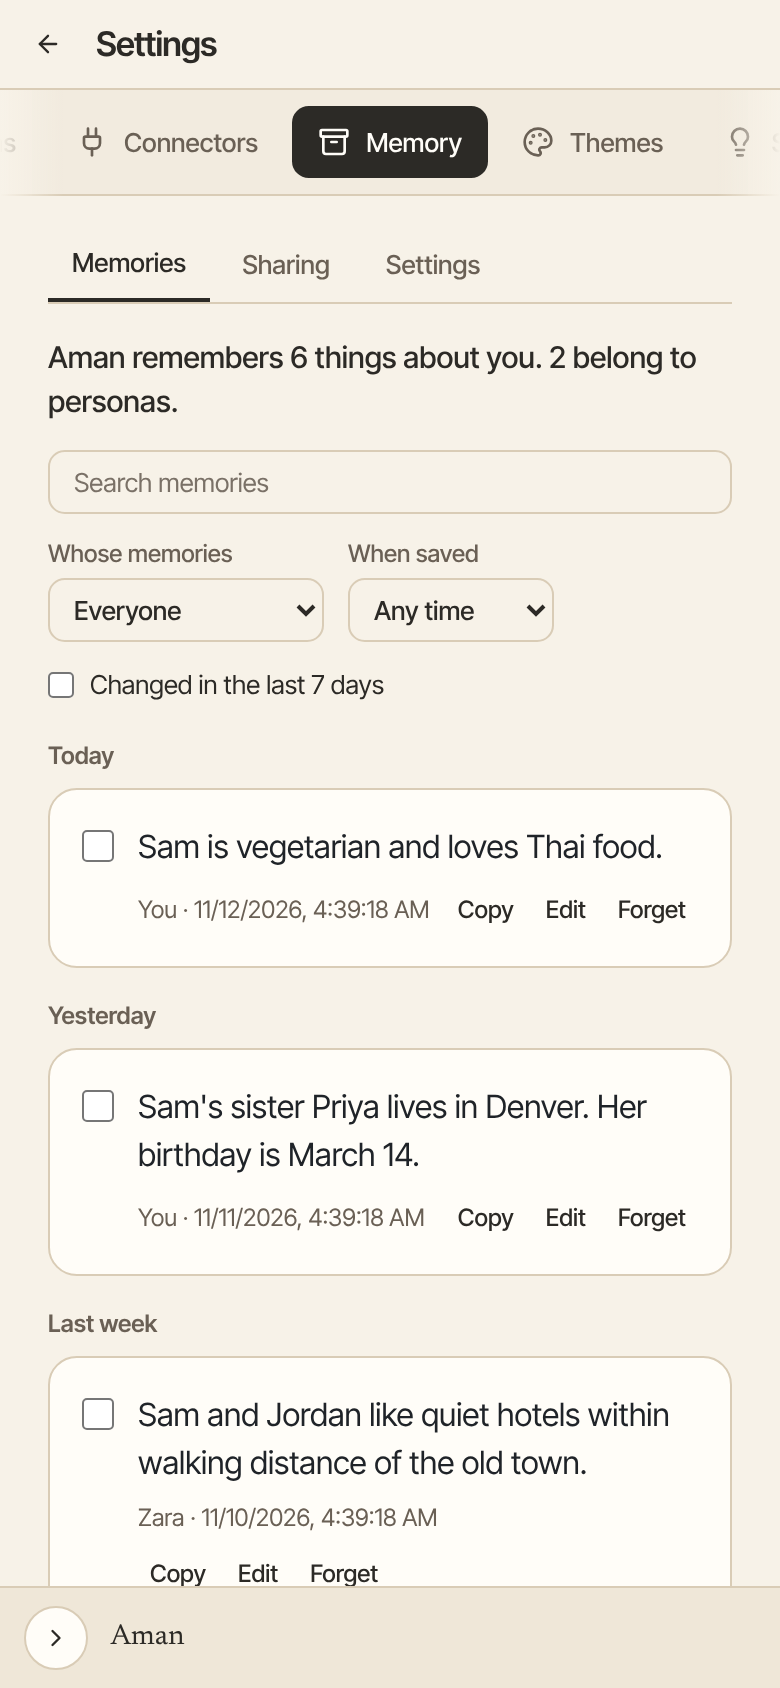
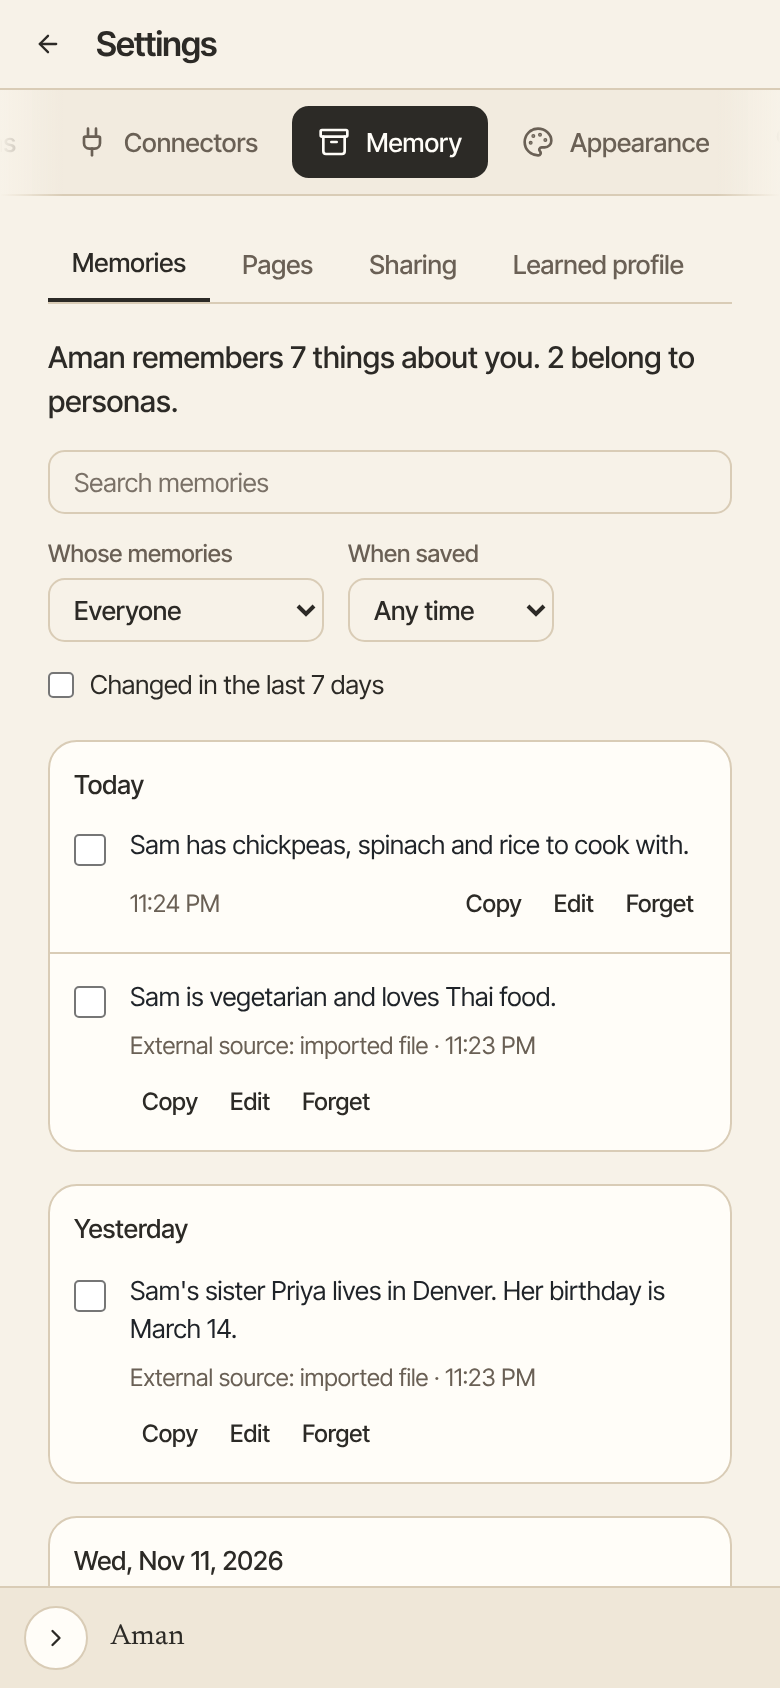
docs: demo model answers memory summaries, retake the Memories picture

diff --git a/packages/frontend/scripts/docsScreenshots/demoModelServer.ts b/packages/frontend/scripts/docsScreenshots/demoModelServer.ts
@@ -32,6 +32,8 @@ export interface DemoExchange {
   reply: string;
   /** Tools Aman uses first, one after another. */
   tools?: readonly DemoToolCall[];
+  /** What Aman keeps in memory from this exchange, so a memory shows as one you said in a chat. */
+  remembers?: readonly string[];
 }
 
 export interface DemoModelServer {
@@ -44,14 +46,9 @@ export interface DemoModelServer {
 
 /** The answer for any request the list does not cover. */
 const FALLBACK_REPLY = 'Sure. Tell me a little more and I will take it from there.';
-/**
- * Answers to the server's own background questions, found by a phrase their prompt holds. They keep nothing
- * new, so the demo memories stay exactly as the run saved them.
- */
-const BACKGROUND_REPLIES: readonly { prompt: string; reply: string }[] = [
-  { prompt: '{"facts":', reply: '{"facts": []}' },
-  { prompt: '<knowledge-relevance-judge', reply: '{"helpful": []}' },
-];
+/** Phrases that mark the server's memory summary question and its relevance check. */
+const MEMORY_SUMMARY_PROMPT = '{"facts":';
+const RELEVANCE_PROMPT = '<knowledge-relevance-judge';
 
 function isRecord(value: unknown): value is Record<string, unknown> {
   return typeof value === 'object' && value !== null && !Array.isArray(value);
@@ -83,6 +80,21 @@ function currentExchange({ messages, exchanges }: { messages: ChatMessage[]; exc
     }
   }
   return { exchange, toolsAnswered };
+}
+
+/** The answer to one of the server's background questions, or undefined when the request is not one. */
+function backgroundReply({
+  messages,
+  exchanges,
+}: {
+  messages: ChatMessage[];
+  exchanges: readonly DemoExchange[];
+}): string | undefined {
+  const texts = messages.map(message => textOf(message.content));
+  if (texts.some(text => text.includes(RELEVANCE_PROMPT))) return '{"helpful": []}';
+  if (!texts.some(text => text.includes(MEMORY_SUMMARY_PROMPT))) return undefined;
+  const summarized = exchanges.find(candidate => texts.some(text => text.includes(candidate.ask)));
+  return JSON.stringify({ facts: summarized?.remembers ?? [] });
 }
 
 function advertisedName({ match, tools }: { match: string; tools: AdvertisedTool[] }): string | undefined {
@@ -146,13 +158,12 @@ export async function startDemoModelServer({
           argumentsJson: JSON.stringify(wanted.arguments),
         });
       }
-      // Only a chat answer speaks for Aman: one that offers tools, or streams, as the help guide's does without tools.
-      // Background questions get the plain fallback.
+      // The server's own background questions offer no tools and may stream. A memory summary keeps only what
+      // the exchange says it remembers, so the demo memories stay exactly as the run saved them.
+      const background = tools.length > 0 ? undefined : backgroundReply({ messages, exchanges });
+      // Otherwise only a chat answer speaks for Aman: one that offers tools, or streams, as the help guide's does.
       const chatAnswer = tools.length > 0 || stream;
-      const background = chatAnswer
-        ? undefined
-        : BACKGROUND_REPLIES.find(answer => messages.some(message => textOf(message.content).includes(answer.prompt)));
-      const text = background?.reply ?? (chatAnswer && exchange !== undefined ? exchange.reply : FALLBACK_REPLY);
+      const text = background ?? (chatAnswer && exchange !== undefined ? exchange.reply : FALLBACK_REPLY);
 
       if (!stream) {
         res.writeHead(200, { 'content-type': 'application/json' });

diff --git a/packages/frontend/scripts/docsScreenshots/demoWorld.ts b/packages/frontend/scripts/docsScreenshots/demoWorld.ts
@@ -195,6 +195,7 @@ export const CHATS = {
   dinner: {
     title: 'Dinner with chickpeas and spinach',
     ask: 'What can I make tonight with chickpeas, spinach and rice?',
+    remembers: ['Sam has chickpeas, spinach and rice to cook with.'],
     reply: [
       'Try a quick chickpea and spinach curry over rice. It takes about 25 minutes.',
       '',
